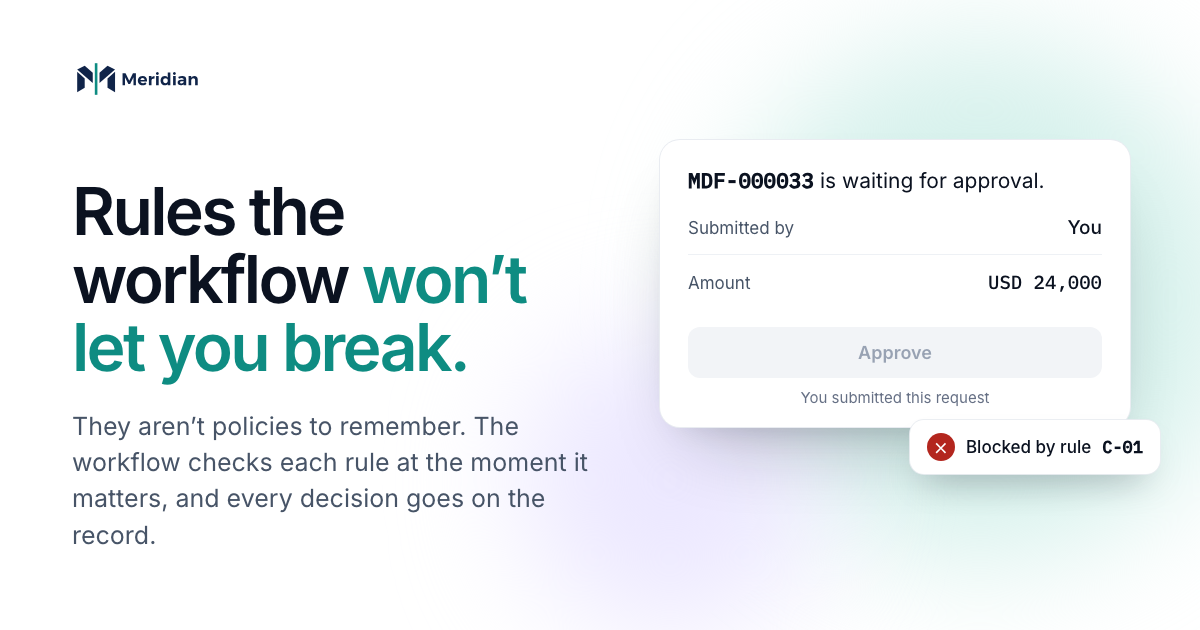
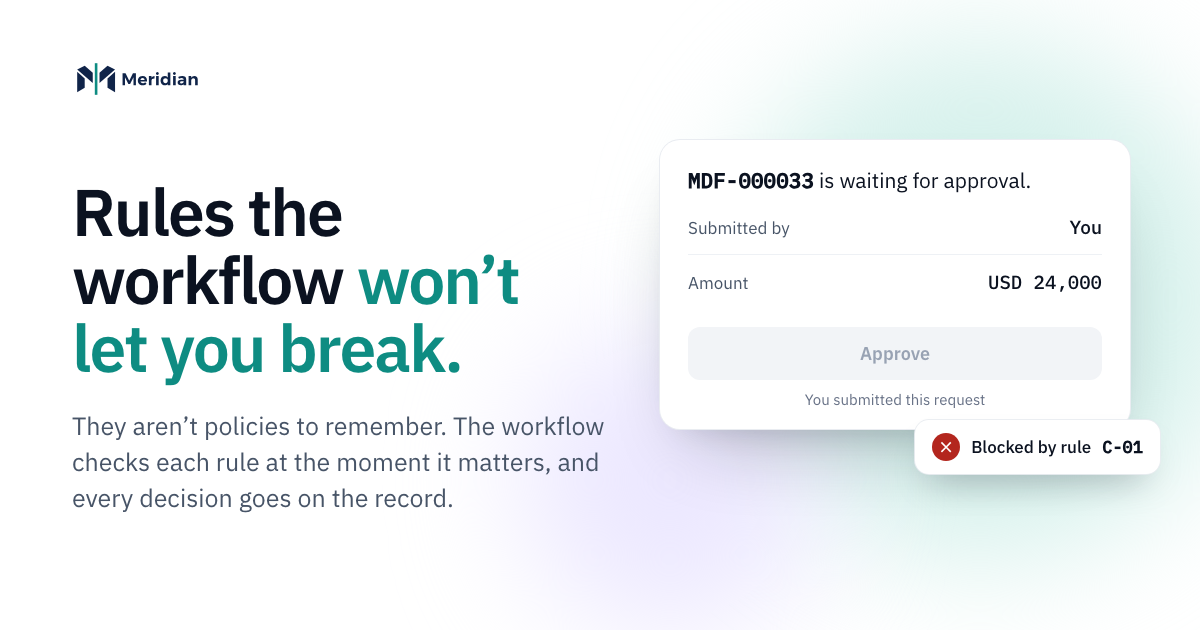
Type: IBM Plex Sans, as in the app; share images in Plex and up to date
- The site's text face moves from Inter to IBM Plex Sans, the face the app
  uses. Headline letter-spacing eases from -0.04em to -0.03em to suit it.
- Share images redrawn in Plex, with the current copy: the homepage and
  evidence pack sub copy, 28 history entries, and Grace Adeyemi as
  Channels leader on Trust.

diff --git a/src/styles/site.css b/src/styles/site.css
@@ -2,7 +2,7 @@
 :root {
   --ink: #0B1220; --ink2: #475467; --mut: #667085; --line: #E4E7EC; --soft: #EEF1F5; --white: #FFFFFF;
   --teal: #0E8C82; --teal-d: #0A6B63; --mint: #E3F5F2; --lav: #EEEAFE; --peach: #FFEDDF; --sky: #E4F0FE;
-  --sans: "Inter", "Helvetica Neue", Arial, sans-serif; --mono: "IBM Plex Mono", ui-monospace, Menlo, monospace;
+  --sans: "IBM Plex Sans", "Helvetica Neue", Arial, sans-serif; --mono: "IBM Plex Mono", ui-monospace, Menlo, monospace;
   --ease: cubic-bezier(.2, .7, .2, 1); --spring: cubic-bezier(.34, 1.56, .64, 1);
 }
 * { box-sizing: border-box; }
@@ -18,7 +18,7 @@ a { color: inherit; text-decoration: none; }
 .skip:focus { top: calc(env(safe-area-inset-top, 0px) + .75rem); }
 
 /* type */
-h1, h2 { font-weight: 600; letter-spacing: -.04em; line-height: 1.02; text-wrap: balance; }
+h1, h2 { font-weight: 600; letter-spacing: -.03em; line-height: 1.02; text-wrap: balance; }
 h1 { font-size: clamp(2.75rem, 5.6vw, 4.75rem); }
 h2 { font-size: clamp(2.25rem, 4.4vw, 3.75rem); }
 h1 em, h2 em { font-style: normal; color: var(--teal); }
